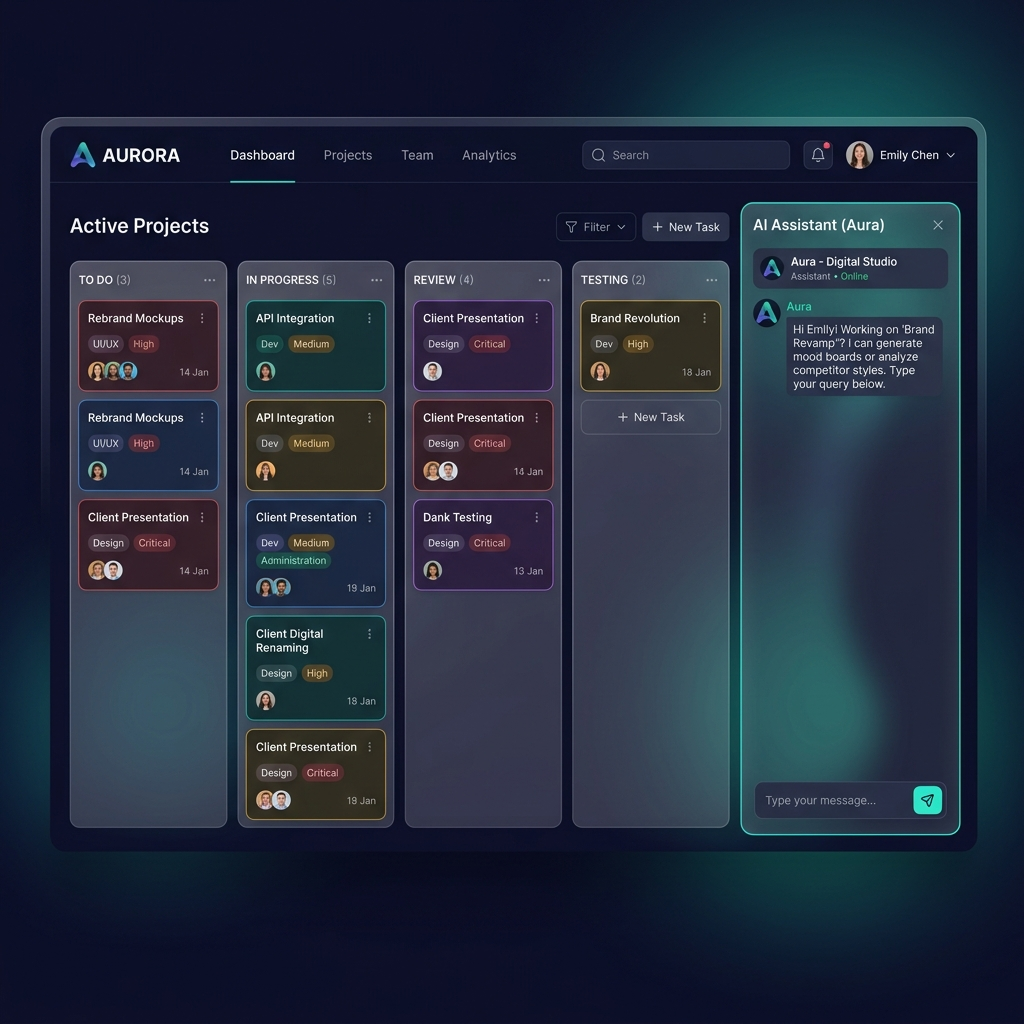
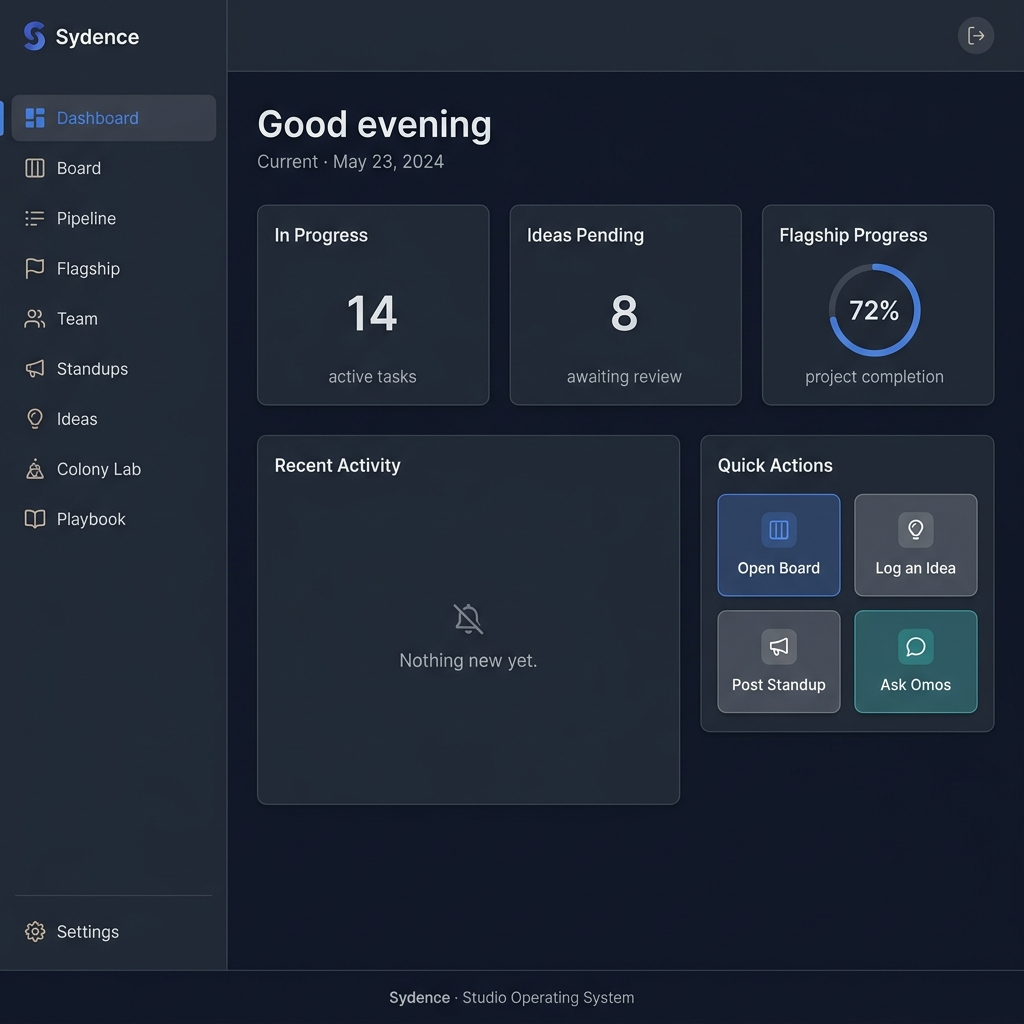
Rewrite Sydence page with real product copy and features

diff --git a/src/app/sydence/page.js b/src/app/sydence/page.js
@@ -1,13 +1,13 @@
 import Link from 'next/link';
 
 export const metadata = {
-  title: 'Sydence — Studio Operating System | PegBit Studio',
+  title: 'Sydence — Run Your Studio With Clarity | PegBit Studio',
   description:
-    'Sydence is an AI-powered operating system built for digital and creative studios. Automate project management, streamline client delivery, and scale your studio with intelligence.',
+    'Projects. Team. Ideas. Intelligence. Sydence is a Studio Operating System built for creative studios that move fast and think clearly. Currently in product testing.',
   openGraph: {
     title: 'Sydence — Studio Operating System',
     description:
-      'Automate your studio. Deliver better work. Sydence is the AI-powered OS for digital agencies.',
+      'Run your studio with clarity. Projects, standups, ideas, and AI — one system built for creative teams.',
     url: 'https://pegbitstudio.com/sydence',
     images: [{ url: '/sydence-mockup.png' }],
   },
@@ -17,16 +17,21 @@ export default function SydencePage() {
   return (
     <>
       {/* ── NAV ── */}
-      <nav id="navbar" style={{ position: 'fixed', top: 0, left: 0, right: 0, zIndex: 100, padding: '20px 0', transition: 'all 0.3s' }}>
+      <nav id="navbar" style={{ position: 'fixed', top: 0, left: 0, right: 0, zIndex: 100, padding: '20px 0', background: 'rgba(10,10,26,0.8)', backdropFilter: 'blur(12px)', borderBottom: '1px solid var(--border)' }}>
         <div className="container">
           <div className="nav-inner" style={{ display: 'flex', alignItems: 'center', justifyContent: 'space-between' }}>
             <Link href="/" className="nav-logo" style={{ display: 'flex', alignItems: 'center', gap: '8px', fontFamily: "'Syne', sans-serif", fontWeight: 700, fontSize: '17px', textDecoration: 'none', color: 'var(--white)' }}>
               <span style={{ color: 'var(--indigo)', fontSize: '22px' }}>⬡</span>
               PegBit Studio
             </Link>
-            <Link href="/#products" style={{ fontFamily: "'JetBrains Mono', monospace", fontSize: '12px', color: 'var(--text-dim)', textDecoration: 'none', letterSpacing: '0.05em', transition: 'color 0.2s' }}>
-              ← Back to Studio
-            </Link>
+            <div style={{ display: 'flex', alignItems: 'center', gap: '20px' }}>
+              <Link href="/#products" style={{ fontFamily: "'JetBrains Mono', monospace", fontSize: '12px', color: 'var(--text-dim)', textDecoration: 'none', letterSpacing: '0.05em' }}>
+                ← Back
+              </Link>
+              <a href="https://sydence.vercel.app/signup" target="_blank" rel="noopener noreferrer" className="btn-primary" style={{ padding: '8px 18px', fontSize: '13px' }}>
+                Get Started Free →
+              </a>
+            </div>
           </div>
         </div>
       </nav>
@@ -34,77 +39,65 @@ export default function SydencePage() {
       <main style={{ paddingTop: '80px' }}>
 
         {/* ── HERO ── */}
-        <section style={{ minHeight: '90vh', display: 'flex', alignItems: 'center', background: 'var(--navy)', position: 'relative', overflow: 'hidden', padding: '100px 0 80px' }}>
-          <div className="orb orb-indigo" style={{ width: '700px', height: '700px', top: '-200px', right: '-200px', position: 'absolute', opacity: 0.5 }}></div>
-          <div className="orb orb-gold" style={{ width: '400px', height: '400px', bottom: '-100px', left: '-100px', position: 'absolute', opacity: 0.3 }}></div>
+        <section style={{ minHeight: '92vh', display: 'flex', alignItems: 'center', background: 'var(--navy)', position: 'relative', overflow: 'hidden', padding: '100px 0 80px' }}>
+          <div className="orb orb-indigo" style={{ width: '800px', height: '800px', top: '-300px', right: '-300px', position: 'absolute', opacity: 0.45 }}></div>
+          <div className="orb orb-gold" style={{ width: '400px', height: '400px', bottom: '-100px', left: '-100px', position: 'absolute', opacity: 0.25 }}></div>
 
           <div className="container" style={{ position: 'relative', zIndex: 1 }}>
             <div style={{ display: 'inline-flex', alignItems: 'center', gap: '8px', fontFamily: "'JetBrains Mono', monospace", fontSize: '11px', fontWeight: 500, color: 'var(--indigo)', letterSpacing: '0.12em', textTransform: 'uppercase', marginBottom: '28px', padding: '6px 14px', border: '1px solid rgba(79,70,229,0.3)', borderRadius: '20px', background: 'rgba(79,70,229,0.08)' }}>
-              <span style={{ width: '6px', height: '6px', background: 'var(--indigo)', borderRadius: '50%', animation: 'pulse 2s ease infinite' }}></span>
-              Currently in Product Testing
+              <span style={{ width: '6px', height: '6px', background: 'var(--indigo)', borderRadius: '50%', animation: 'pulse 2s ease infinite', display: 'inline-block' }}></span>
+              Currently in Product Testing · by PegBit Studio
             </div>
 
-            <h1 style={{ fontFamily: "'Syne', sans-serif", fontSize: 'clamp(48px, 7vw, 84px)', fontWeight: 800, lineHeight: 1.0, letterSpacing: '-0.04em', marginBottom: '28px' }}>
-              <span style={{ display: 'block' }}>Your studio.</span>
-              <span style={{ color: 'var(--indigo)', display: 'block' }}>Automated.</span>
+            <h1 style={{ fontFamily: "'Syne', sans-serif", fontSize: 'clamp(46px, 7vw, 84px)', fontWeight: 800, lineHeight: 1.0, letterSpacing: '-0.04em', marginBottom: '28px' }}>
+              <span style={{ display: 'block' }}>Run your studio</span>
+              <span style={{ color: 'var(--indigo)', display: 'block' }}>with clarity.</span>
             </h1>
 
-            <p style={{ fontSize: '18px', fontWeight: 300, lineHeight: 1.75, color: 'var(--text-dim)', maxWidth: '580px', marginBottom: '20px' }}>
-              Sydence is an AI-powered operating system built specifically for digital and creative studios. It automates project management, centralises client communication, and gives your team the intelligence to deliver faster — without the chaos.
-            </p>
-            <p style={{ fontSize: '15px', fontWeight: 300, lineHeight: 1.75, color: 'var(--text-muted)', maxWidth: '520px', marginBottom: '48px' }}>
-              Stop duct-taping tools together. Sydence is the single system your studio runs on.
+            <p style={{ fontSize: '19px', fontWeight: 300, lineHeight: 1.75, color: 'var(--text-dim)', maxWidth: '580px', marginBottom: '48px' }}>
+              Projects. Team. Ideas. Intelligence. One system built for creative studios that move fast and think clearly.
             </p>
 
             <div style={{ display: 'flex', alignItems: 'center', gap: '16px', flexWrap: 'wrap' }}>
               <a href="#waitlist" className="btn-primary">
                 Join the Waitlist
-                <svg width="16" height="16" viewBox="0 0 16 16" fill="none">
-                  <path d="M3 8h10M9 4l4 4-4 4" stroke="currentColor" strokeWidth="1.5" strokeLinecap="round" strokeLinejoin="round" />
-                </svg>
+                <svg width="16" height="16" viewBox="0 0 16 16" fill="none"><path d="M3 8h10M9 4l4 4-4 4" stroke="currentColor" strokeWidth="1.5" strokeLinecap="round" strokeLinejoin="round" /></svg>
               </a>
-              <a href="#features" className="btn-ghost">See How It Works</a>
+              <a href="https://sydence.vercel.app" target="_blank" rel="noopener noreferrer" className="btn-ghost">See Live App ↗</a>
             </div>
           </div>
         </section>
 
-        {/* ── MOCKUP IMAGE ── */}
+        {/* ── DASHBOARD SCREENSHOT ── */}
         <section style={{ background: 'var(--navy-light)', padding: '0', overflow: 'hidden' }}>
           <div className="container">
-            <div style={{ maxWidth: '960px', margin: '0 auto', transform: 'translateY(-60px)', borderRadius: '16px', overflow: 'hidden', border: '1px solid var(--border-accent)', boxShadow: '0 40px 120px rgba(79,70,229,0.2)' }}>
+            <div style={{ maxWidth: '980px', margin: '0 auto', transform: 'translateY(-60px)', borderRadius: '16px', overflow: 'hidden', border: '1px solid var(--border-accent)', boxShadow: '0 40px 120px rgba(79,70,229,0.25)' }}>
               {/* eslint-disable-next-line @next/next/no-img-element */}
-              <img
-                src="/sydence-mockup.png"
-                alt="Sydence Dashboard Preview"
-                style={{ width: '100%', display: 'block' }}
-              />
+              <img src="/sydence-mockup.png" alt="Sydence Studio OS Dashboard" style={{ width: '100%', display: 'block' }} />
             </div>
           </div>
         </section>
 
-        {/* ── THE PROBLEM ── */}
+        {/* ── FEATURES ── */}
         <section id="features" style={{ background: 'var(--navy-light)', paddingTop: '0' }}>
           <div className="container">
             <div style={{ textAlign: 'center', maxWidth: '640px', margin: '0 auto 64px' }}>
-              <div className="section-tag" style={{ justifyContent: 'center' }}>The Problem</div>
+              <div className="section-tag" style={{ justifyContent: 'center' }}>Everything Your Studio Needs</div>
               <h2 className="section-heading" style={{ textAlign: 'center' }}>
-                Studios run on<br/><span style={{ color: 'var(--indigo)' }}>20 different tabs.</span>
+                Built around how<br/><span style={{ color: 'var(--indigo)' }}>creative teams actually work.</span>
               </h2>
-              <p className="section-sub" style={{ textAlign: 'center', margin: '0 auto' }}>
-                Slack for updates. Trello for tasks. Notion for docs. Sheets for timelines. WhatsApp for clients. Every project is a coordination nightmare. Sydence replaces all of it.
-              </p>
             </div>
 
             <div style={{ display: 'grid', gridTemplateColumns: 'repeat(auto-fit, minmax(280px, 1fr))', gap: '20px', marginBottom: '80px' }}>
               {[
-                { icon: '🗂', color: 'var(--indigo)', bg: 'rgba(79,70,229,0.1)', title: 'Unified Project Board', desc: 'All your active projects, tasks, milestones, and deadlines in one intelligent kanban workspace. No more context switching.' },
-                { icon: '🤖', color: 'var(--teal)', bg: 'var(--teal-dim)', title: 'AI Project Assistant', desc: 'An AI co-pilot that drafts briefs, writes status updates, flags overdue tasks, and surfaces risks before they become problems.' },
-                { icon: '📬', color: 'var(--gold-light)', bg: 'rgba(180,83,9,0.1)', title: 'Client Delivery Hub', desc: 'A branded client portal for file delivery, approvals, and feedback. Clients stay informed. Your inbox stays clean.' },
-                { icon: '⏱', color: '#a78bfa', bg: 'rgba(167,139,250,0.1)', title: 'Time & Billing Tracker', desc: 'Log hours, generate invoices, and track retainer usage automatically. Know your studio\'s profitability at a glance.' },
-                { icon: '📊', color: 'var(--teal)', bg: 'var(--teal-dim)', title: 'Studio Intelligence Dashboard', desc: 'Understand capacity, team velocity, and client load across every active engagement — all in one view.' },
-                { icon: '🔗', color: 'var(--indigo)', bg: 'rgba(79,70,229,0.1)', title: 'Tool Integrations', desc: 'Sydence connects with the tools you already use — Figma, Slack, Google Drive, and more — so you never lose context.' },
+                { icon: '🗂', color: 'var(--indigo)', bg: 'rgba(79,70,229,0.1)', title: 'Project Board', desc: 'Kanban and pipeline views for every project. Track status, owners, and deadlines in one glance — no spreadsheets required.' },
+                { icon: '🤖', color: 'var(--teal)', bg: 'var(--teal-dim)', title: 'Omos AI', desc: 'Ask questions, log standups, create projects — all by chat. Omos reads your live studio data and acts on your commands.' },
+                { icon: '💡', color: 'var(--gold-light)', bg: 'rgba(180,83,9,0.1)', title: 'Idea Lab', desc: 'Capture, vote, and promote ideas before they slip away. The best ones get escalated directly into active projects.' },
+                { icon: '🧑💻', color: '#a78bfa', bg: 'rgba(167,139,250,0.1)', title: 'Team Standups', desc: 'Async daily check-ins that keep the whole studio aligned — no meetings required. Omos reads and summarises them.' },
+                { icon: '🔬', color: 'var(--teal)', bg: 'var(--teal-dim)', title: 'Colony Lab', desc: 'R&D experiments tracked separately from delivery work. Run hypotheses, measure results, and ship what you learn.' },
+                { icon: '📚', color: 'var(--indigo)', bg: 'rgba(79,70,229,0.1)', title: 'Knowledge Base', desc: 'Upload docs or link Google Drive files. Omos reads them and surfaces the right answer when you ask a question.' },
               ].map((f, i) => (
-                <div key={i} className="glass-panel" style={{ padding: '28px', borderRadius: '12px' }}>
+                <div key={i} className="glass-panel" style={{ padding: '28px', borderRadius: '12px', transition: 'transform 0.2s' }}>
                   <div style={{ width: '44px', height: '44px', borderRadius: '10px', background: f.bg, display: 'flex', alignItems: 'center', justifyContent: 'center', fontSize: '20px', marginBottom: '16px' }}>{f.icon}</div>
                   <div style={{ fontFamily: "'Syne', sans-serif", fontSize: '16px', fontWeight: 700, marginBottom: '8px', color: f.color }}>{f.title}</div>
                   <p style={{ fontSize: '13px', fontWeight: 300, lineHeight: 1.65, color: 'var(--text-dim)' }}>{f.desc}</p>
@@ -114,24 +107,57 @@ export default function SydencePage() {
           </div>
         </section>
 
-        {/* ── WHO IT'S FOR ── */}
+        {/* ── UP AND RUNNING ── */}
         <div className="divider"></div>
         <section style={{ background: 'var(--navy)', padding: '80px 0' }}>
           <div className="container">
-            <div style={{ display: 'grid', gridTemplateColumns: 'repeat(auto-fit, minmax(300px, 1fr))', gap: '60px', alignItems: 'center' }}>
+            <div style={{ textAlign: 'center', maxWidth: '560px', margin: '0 auto 56px' }}>
+              <div className="section-tag" style={{ justifyContent: 'center' }}>Simple Setup</div>
+              <h2 className="section-heading" style={{ textAlign: 'center' }}>Up and running<br/><span style={{ color: 'var(--indigo)' }}>in minutes.</span></h2>
+              <p className="section-sub" style={{ textAlign: 'center', margin: '0 auto' }}>No lengthy setup. No training required.</p>
+            </div>
+            <div style={{ display: 'grid', gridTemplateColumns: 'repeat(auto-fit, minmax(260px, 1fr))', gap: '20px', maxWidth: '900px', margin: '0 auto' }}>
+              {[
+                { step: '01', title: 'Create your studio', desc: 'Sign up and name your workspace. Your Studio OS is live in under two minutes.' },
+                { step: '02', title: 'Invite your team', desc: 'Share a link — that\'s it. No email servers, no config, no external tools needed.' },
+                { step: '03', title: 'Omos takes the wheel', desc: 'The AI reads your live data, flags anomalies, delivers weekly digests, and acts on your commands.' },
+              ].map((s, i) => (
+                <div key={i} className="glass-panel" style={{ padding: '28px', borderRadius: '12px' }}>
+                  <div style={{ fontFamily: "'JetBrains Mono', monospace", fontSize: '11px', color: 'var(--indigo)', letterSpacing: '0.15em', marginBottom: '12px' }}>{s.step}</div>
+                  <div style={{ fontFamily: "'Syne', sans-serif", fontSize: '17px', fontWeight: 700, marginBottom: '8px' }}>{s.title}</div>
+                  <p style={{ fontSize: '13px', fontWeight: 300, lineHeight: 1.65, color: 'var(--text-dim)' }}>{s.desc}</p>
+                </div>
+              ))}
+            </div>
+          </div>
+        </section>
+
+        {/* ── OMOS SPOTLIGHT ── */}
+        <div className="divider"></div>
+        <section style={{ background: 'var(--navy-light)', padding: '80px 0' }}>
+          <div className="container">
+            <div style={{ display: 'grid', gridTemplateColumns: 'repeat(auto-fit, minmax(300px, 1fr))', gap: '60px', alignItems: 'center', maxWidth: '960px', margin: '0 auto' }}>
               <div>
-                <div className="section-tag">Built For</div>
-                <h2 className="section-heading">Who runs on Sydence?</h2>
-                <p className="section-sub">Sydence is purpose-built for digital, creative, and tech studios — teams that manage multiple client projects at once and need more than a generic project tool.</p>
+                <div className="section-tag">AI at the Core</div>
+                <h2 className="section-heading">Meet Omos —<br/><span style={{ color: 'var(--teal)' }}>your studio AI.</span></h2>
+                <p className="section-sub" style={{ marginBottom: '20px' }}>Ask it anything about your studio. Log your standup. Create a project. Flag a blocker.</p>
+                <p style={{ fontSize: '15px', fontWeight: 300, lineHeight: 1.75, color: 'var(--text-muted)' }}>Omos reads your live data and your uploaded knowledge base to give you real answers — not generic AI fluff.</p>
               </div>
-              <ul style={{ listStyle: 'none', display: 'flex', flexDirection: 'column', gap: '12px' }}>
-                {['Digital & Creative Agencies', 'Software Development Studios', 'Branding & Design Firms', 'Marketing & Content Studios', 'Independent Freelance Teams'].map((item, i) => (
-                  <li key={i} style={{ display: 'flex', alignItems: 'center', gap: '12px', fontSize: '15px', fontWeight: 400, color: 'var(--text-dim)' }}>
-                    <span style={{ width: '8px', height: '8px', borderRadius: '50%', background: 'var(--indigo)', flexShrink: 0 }}></span>
-                    {item}
-                  </li>
+              <div className="glass-panel" style={{ padding: '28px', borderRadius: '16px', background: 'rgba(13,148,136,0.05)', border: '1px solid rgba(13,148,136,0.2)', position: 'relative', overflow: 'hidden' }}>
+                <div style={{ position: 'absolute', top: 0, left: 0, right: 0, height: '2px', background: 'linear-gradient(90deg, var(--teal), transparent)' }}></div>
+                {[
+                  { q: false, text: 'How many projects are overdue?' },
+                  { q: true, text: 'You have 2 overdue projects: Brand Revolution (3 days) and API Integration (1 day). Want me to flag them to the team?' },
+                  { q: false, text: 'Log my standup: shipped the auth module, reviewing PRs today.' },
+                  { q: true, text: 'Standup logged ✓. Flagged to your team channel. Great progress on auth!' },
+                ].map((m, i) => (
+                  <div key={i} style={{ display: 'flex', justifyContent: m.q ? 'flex-start' : 'flex-end', marginBottom: '12px' }}>
+                    <div style={{ maxWidth: '80%', padding: '10px 14px', borderRadius: m.q ? '4px 12px 12px 12px' : '12px 4px 12px 12px', background: m.q ? 'rgba(13,148,136,0.15)' : 'rgba(79,70,229,0.2)', fontSize: '13px', lineHeight: 1.5, color: m.q ? 'var(--teal)' : 'var(--white)', border: `1px solid ${m.q ? 'rgba(13,148,136,0.2)' : 'rgba(79,70,229,0.2)'}` }}>
+                      {m.text}
+                    </div>
+                  </div>
                 ))}
-              </ul>
+              </div>
             </div>
           </div>
         </section>
@@ -147,7 +173,7 @@ export default function SydencePage() {
                 Be the first to<br/><span style={{ color: 'var(--indigo)' }}>run on Sydence.</span>
               </h2>
               <p className="section-sub" style={{ textAlign: 'center', margin: '0 auto 40px' }}>
-                Sydence is currently in active product testing. Join the waitlist and get early access, founding-user pricing, and a direct line to the team building it.
+                Sydence is currently in active product testing. Join the waitlist to get early access, founding-user pricing, and a direct line to the team building it.
               </p>
 
               <div className="glass-panel" style={{ padding: '36px', borderRadius: '16px', marginBottom: '24px', position: 'relative', overflow: 'hidden' }}>
@@ -158,7 +184,7 @@ export default function SydencePage() {
                     <div style={{ fontSize: '13px', fontWeight: 300, color: 'var(--text-dim)', marginTop: '4px' }}>Send us an email with your studio name and role.</div>
                   </div>
                   <a
-                    href="mailto:info@pegbitstudio.com?subject=Sydence Waitlist — I want early access&body=Hi PegBit team,%0A%0AI'd like to join the Sydence waitlist.%0A%0AStudio/Company: %0ARole: %0ANo. of team members: %0A%0ALooking forward to hearing from you."
+                    href="mailto:info@pegbitstudio.com?subject=Sydence Waitlist — Early Access Request&body=Hi PegBit team,%0A%0AI'd like to join the Sydence waitlist for early access.%0A%0AStudio/Company name: %0ARole: %0ATeam size: %0AWhat do you currently use to manage projects? %0A%0ALooking forward to hearing from you."
                     className="btn-primary"
                     style={{ whiteSpace: 'nowrap' }}
                   >
@@ -168,7 +194,7 @@ export default function SydencePage() {
               </div>
 
               <p style={{ fontSize: '12px', fontFamily: "'JetBrains Mono', monospace", letterSpacing: '0.05em', color: 'var(--text-muted)' }}>
-                No spam. No commitment. Just early access when we go live.
+                No spam. No commitment. Founding access when we launch publicly.
               </p>
             </div>
           </div>
